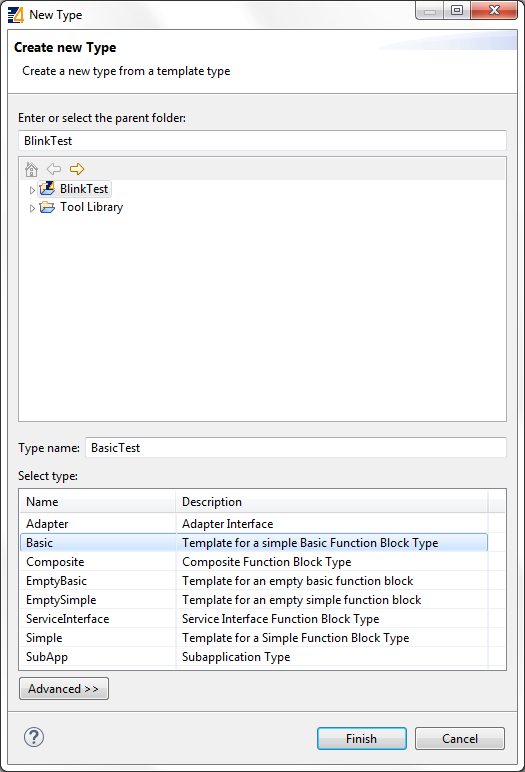
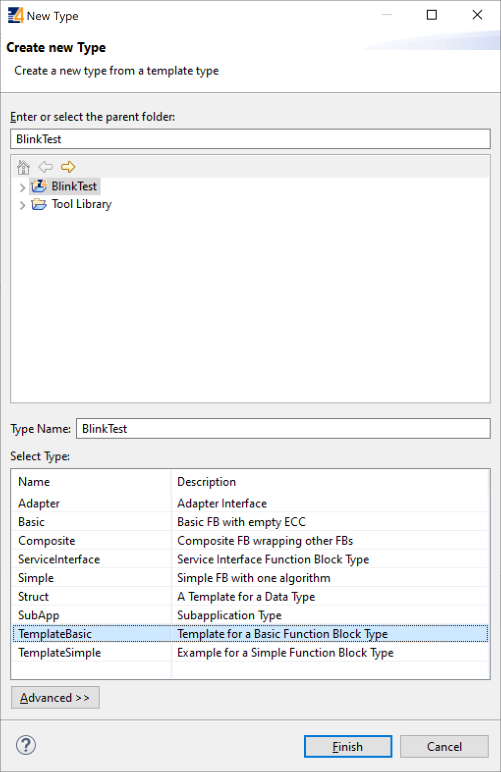
[569583] Update the documentation
Implemented Andrea's review. Moved the sentence.

Bug: https://bugs.eclipse.org/bugs/show_bug.cgi?id=569583

Changed region(s): [[0.0, 0.0, 1.0, 1.0]]

diff --git a/plugins/org.eclipse.fordiac.ide/html/4diacIDE/createOwnTypes.html b/plugins/org.eclipse.fordiac.ide/html/4diacIDE/createOwnTypes.html
@@ -4,7 +4,7 @@
                2018 - 2019 Andrea Zoitl, Johannes Kepler University Linz
                2018        Jan Holzweber
                2020        Primetals Technologies Austria GmbH
-  
+
  This program and the accompanying materials are made available under the
  terms of the Eclipse Public License 2.0 which is available at
  http://www.eclipse.org/legal/epl-2.0.
@@ -18,6 +18,7 @@
    Bianca Wiesmayr - minor text corrections
    Jan Holzweber - added tutorial Step 7
    Ernst Blecha - add information on automatic creation of CMakeLists.txt
+   Lukas Wais - Updated Change the Interface bullet points
 -->
 
 <html lang="en">
@@ -66,7 +67,7 @@ At an event input, the Boolean data output will be toggled and the event output 
 
 <p>Follow the instructions in the creation wizard. 
 For this tutorial, select BlinkTest as the parent folder. Choose a name for the new FB, we name it <i>BasicTest</i>. 
-Afterwards, select the type of FB you want to create, in this case we choose <i>Basic</i>.
+Afterwards, select the type of FB you want to create, in this case we choose <i>TemplateBasic</i>.
 The <b>Function Block Type Editor (FBT Editor)</b> opens after clicking Finish.</p>
 
 <img src="../../html/4diacIDE/img/Step4/newTypeWizardBasic.png" alt="New Type Wizard - Create a Basic Function Block" />
@@ -86,26 +87,21 @@ The <b>Function Block Type Editor (FBT Editor)</b> opens after clicking Finish.<
 <!--********************-->
 <h3 id="changeInterface">Change the Interface</h3>
 
-<p>The Basic FB already has some inputs and outputs which are commonly used.
+<p>The TemplateBasic FB already has some inputs and outputs which are commonly used.
 If you need another, just drag and drop it from the Palette into the FB or right-click at the FB to set another input or output.
 Of course you can also delete them by pressing the Delete key or right-click &rarr; Delete.</p>
 
 <p>In this example, we are doing a Blinking Function Block. 
 This should have then one input event that triggers the change, one output event as an indicator of a change, and a Boolean data output for the state.
 <br>By default, the Boolean output is set to <i>false</i> and remembers the state until a new event comes in and converts the Boolean to <i>true</i> until the next input arrives.
-<br>Right now, the Basic FB has more inputs and outputs than we need.</p>
+<br>Right now, the TemplateBasic FB has more inputs and outputs than we need.</p>
 
 <ol>
 	<li>Select the INIT event, and delete it. Do the same for QI and INITO.</li>
-	<li>Select the QO output, and change its name to STATE by either double-clicking on it, or in the Properties below. 
-		You can change the Comment for each event and data also in the Properties.</li>
+	<li>Select the QO output, and change its name to STATE by either double-clicking on it, or in the Properties below. You can change the Comment for each event and data also in the Properties.</li>
 	<li>Check that the Type of STATE is BOOL in Properties.</li>
-	<li>Check the lines between events and data which represent the WITH. 
-	    They indicate which data outputs are refreshed when an Event occurs. 
-	    Similarly work event and data inputs, but in this case there's no data input to refresh. 
-	    Since the STATE is changed when CNF is triggered, there's a WITH line between them.</li>
-	<li>Try and add Events and different types of Data input and outputs to the interface to play around from the Palette. 
-	    Finally, leave it again as in the image.</li>
+	<li>Check the lines between events and data which represent the WITH. They indicate which data outputs are refreshed when an Event occurs. Similarly work event and data inputs, but in this case there's no data input to refresh. Since the STATE is changed when CNF is triggered, there's a WITH line between them.</li>
+	<li>Try and add Events and different types of Data input and outputs to the interface to play around from the Palette. Finally, leave it again as in the image.</li>
 </ol>
 
 <img src="../../html/4diacIDE/img/Step4/createBasicInterface.png" alt="Create Basic Type - Interface"/>

diff --git a/plugins/org.eclipse.fordiac.ide/html/4diacIDE/use4diacLocally.html b/plugins/org.eclipse.fordiac.ide/html/4diacIDE/use4diacLocally.html
@@ -4,6 +4,7 @@
                2018 - 2019 Johannes Kepler University Linz
                2018 - 2019 Andrea Zoitl
                2019 - Jan Holzweber
+               2020 - Lukas Wais
   
  This program and the accompanying materials are made available under the
  terms of the Eclipse Public License 2.0 which is available at
@@ -18,6 +19,7 @@
    Andrea Zoitl - cleaning up tutorials for 1.10 release, updated ToC
    Bianca Wiesmayr - minor text corrections
    Jan Holzweber - added tutorial Step 7
+   Lukas Wais - updated the pictures, updated the text at Create a FB Network for the Blink Application
 -->
 
 <html lang="en">
@@ -84,6 +86,7 @@
             <li>E_SWITCH</li>
             <li>E_SR</li>
           </ul>
+          You can also double-click the editor area and search for the FBs.
           <img src="../../html/4diacIDE/img/Step1/blinkFBs.png" alt="Function Blocks for the blink example" />
           <p>The name in the middle of the FB is its type. If you CTRL + click on it, you can access the definition of the type of the FB. 
           There you can see the interface and how it works. Check E_SWITCH and E_SR and go to the ECC tab to see how they behave.</p>
@@ -103,6 +106,7 @@
               <li>If you hover the mouse over a FB or Data or Event connection end, you'll get information about it.</li>
               <li>If you try to connect Data connections that have incompatible types, you will see a red error in the status bar at the lowest part of 4diac-IDE.</li>
               <li>Selected function blocks in the <span class="view4diac">Application Editor</span> can be parameterized using the <span class="view4diac">Properties View</span> typically located below.</li>
+          	  <li>The colors of the connections may differ. Remember you can change them in <span class="menu4diac">Window &rarr; Preferences &rarr; 4diac&nbsp;IDE</span></li>
           </ul>
         </li>
         <li>Set a literal as an input data connection. The DT input data connection of E_CYCLE must be set to a value in order for it to work. You can do it by either:

diff --git a/plugins/org.eclipse.fordiac.ide/html/before4DIAC/iec61499.html b/plugins/org.eclipse.fordiac.ide/html/before4DIAC/iec61499.html
@@ -3,6 +3,7 @@
  Copyright (c) 2017-2018 fortiss GmbH
                     2018 Johannes Kepler University Linz
                     2019 Andrea Zoitl
+                    2020 Lukas Wais
   
  This program and the accompanying materials are made available under the
  terms of the Eclipse Public License 2.0 which is available at
@@ -17,6 +18,8 @@
 	 - text improvements
 	Andrea Zoitl
 	 - improved readability, updated Help ToC
+	 Lukas Wais
+	 - fixed a typo in the section PLC Programming according to IEC 61131-3
 -->
 
 <html lang="en">
@@ -44,7 +47,7 @@ PLCs are efficiently produced for narrowed purposes, in contrast, a normal PC is
 Hence, each PLC manufacturer not only develops the hardware, but also the basic software (firmware) running on the PLC. 
 The firmware is comparable to the operating system of normal computers (Linux, Windows, Mac OS).</p>
 
-<p>To program a PLC, you need an IDE (integrated development environment, it is a software where you can do all tasks related ot a certain subject, in this case related to the PLC in use) from the PLC vendor. 
+<p>To program a PLC, you need an IDE (integrated development environment, it is a software where you can do all tasks related to a certain subject, in this case related to the PLC in use) from the PLC vendor. 
 The IDE runs on your normal computer (Linux, Windows, Mac OS) and allows coding your application and then uploading it to the PLC. 
 Please note the different terms we are using to distinguish similar concepts:</p>
 

diff --git a/plugins/org.eclipse.fordiac.ide/html/4diacIDE/overview.html b/plugins/org.eclipse.fordiac.ide/html/4diacIDE/overview.html
@@ -4,11 +4,12 @@
                2018 - 2019 Andrea Zoitl
                2019 Johannes Kepler University Linz
                2019 Jan Holzweber
+               2020 Primetals Technologies Austria GmbH
                  
  This program and the accompanying materials are made available under the
  terms of the Eclipse Public License 2.0 which is available at
  http://www.eclipse.org/legal/epl-2.0.
-
+ 	
  SPDX-License-Identifier: EPL-2.0
  
  Contributors:
@@ -145,7 +146,7 @@ You can open the welcome screen later again via Help &rarr; Welcome.</p>
    In order to use the Runtime Launcher of the <a href="#deploymentPerspective">deployment perspective</a>, the location of the run-time executable files must be set in the properties. Currently two runtime environments are supported:</p>
 <ol>
 	<li><a href="http://www.eclipse.org/4diac/en_rte.php" >4diac Forte</a>: <span class="fileLocation">path/forte.exe</span></li>
-    <li><a href="https://www.holobloc.com/">Holobloc’s FBRT</a>: <span class="fileLocation">path/fbrt.jar</span></li>
+    <li><a href="https://www.holobloc.com/">Holobloc&#39;s FBRT</a>: <span class="fileLocation">path/fbrt.jar</span></li>
 </ol>
  
 <img src="../../html/4diacIDE/img/properties/4DIACpreferences.png" alt="4diac&nbsp;IDE Preferences"/>
